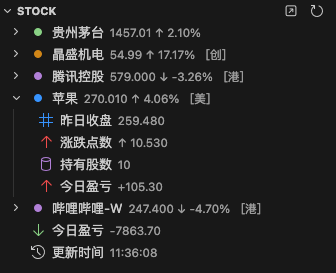
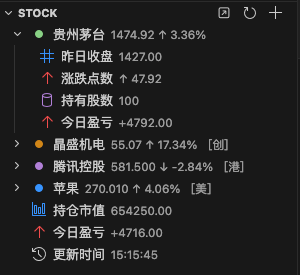
release: 1.3.0

diff --git a/README.md b/README.md
@@ -6,9 +6,13 @@
 
 ## 使用方式
 
-在`VS Code Settings`中配置自选股代码，示例如下：
+1、常规方式：在`VS Code Settings`中配置自选股代码，示例如下：
 
 ![usage](./src/assets/usage.png)
+
+2、快捷方式：（1）右键菜单支持编辑与删除 （2）顶部菜单支持新增与刷新
+
+![usage2](./src/assets/usage2.png)
 
 ## 问题反馈
 

diff --git a/CHANGELOG.md b/CHANGELOG.md
@@ -1,5 +1,12 @@
 # Change Log
 
+## [1.3.0] - 2026-02-03
+
+### 🚀 新特性
+
+- 支持添加、编辑和删除自选股的快捷方式
+- 显示持仓市值
+
 ## [1.2.0] - 2026-02-03
 
 ### 🚀 新特性
